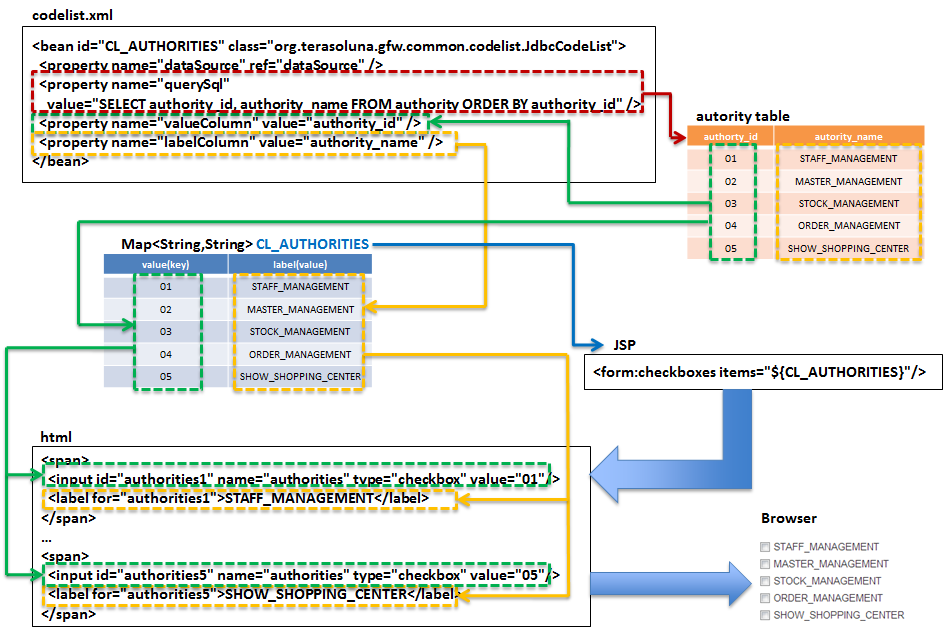
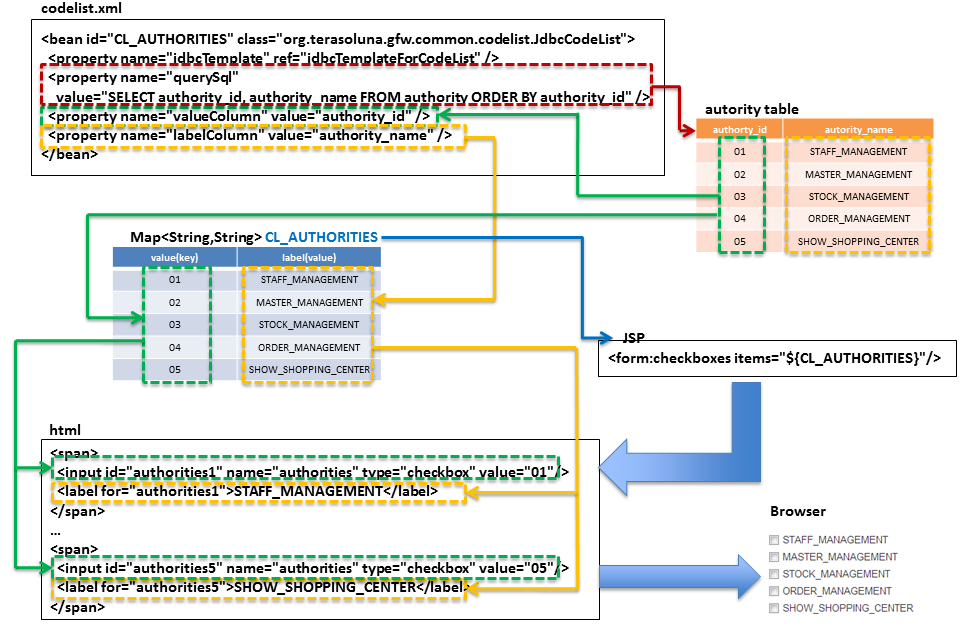
#501 inject JdbcTemplate into JdbcCodelist
(cherry picked from commit 06ca39967ebb0bfa78be2eb3f69a9841574fea39)

Changed region(s): [[0.0, 0.0, 1.0, 1.0]]

diff --git a/source/ArchitectureInDetail/Codelist.rst b/source/ArchitectureInDetail/Codelist.rst
@@ -465,7 +465,7 @@ JdbcCodeListの使用方法
 .. code-block:: xml
 
     <bean id="CL_AUTHORITIES" class="org.terasoluna.gfw.common.codelist.JdbcCodeList"> <!-- (1) -->
-        <property name="dataSource" ref="dataSource" />
+        <property name="jdbcTemplate" ref="jdbcTemplateForCodeList" />
         <property name="querySql"
             value="SELECT authority_id, authority_name FROM authority ORDER BY authority_id" /> <!-- (2) -->
         <property name="valueColumn" value="authority_id" /> <!-- (3) -->
@@ -876,7 +876,7 @@ SimpleI18nCodeListの使用方法
     </bean>
   
     <bean id="CL_PRICE_EN" class="org.terasoluna.gfw.common.codelist.JdbcCodeList">  <!-- (4) -->
-        <property name="dataSource" ref="dataSource" />
+        <property name="jdbcTemplate" ref="jdbcTemplateForCodeList" />
         <property name="querySql"
             value="SELECT code, label FROM price WHERE locale = 'en' ORDER BY code" />
         <property name="valueColumn" value="code" />
@@ -884,7 +884,7 @@ SimpleI18nCodeListの使用方法
     </bean>
   
     <bean id="CL_PRICE_JA" class="org.terasoluna.gfw.common.codelist.JdbcCodeList">  <!-- (5) -->
-        <property name="dataSource" ref="dataSource" />
+        <property name="jdbcTemplate" ref="jdbcTemplateForCodeList" />
         <property name="querySql"
             value="SELECT code, label FROM price WHERE locale = 'ja' ORDER BY code" />
         <property name="valueColumn" value="code" />
@@ -1333,7 +1333,7 @@ Task Schedulerの設定例について、以下に示す。
     </task:scheduled-tasks>
 
     <bean id="CL_AUTHORITIES" class="org.terasoluna.gfw.common.codelist.JdbcCodeList">
-        <property name="dataSource" ref="dataSource" />
+        <property name="jdbcTemplate" ref="jdbcTemplateForCodeList" />
         <property name="querySql"
             value="SELECT authority_id, authority_name FROM authority ORDER BY authority_id" />
         <property name="valueColumn" value="authority_id" />
@@ -1379,7 +1379,7 @@ JdbcCodeListのrefreshメソッドをServiceクラスで呼び出す場合の実
 .. code-block:: xml
 
     <bean id="CL_AUTHORITIES" class="org.terasoluna.gfw.common.codelist.JdbcCodeList">
-        <property name="dataSource" ref="dataSource" />
+        <property name="jdbcTemplate" ref="jdbcTemplateForCodeList" />
         <property name="querySql"
             value="SELECT authority_id, authority_name FROM authority ORDER BY authority_id" />
         <property name="valueColumn" value="authority_id" />
